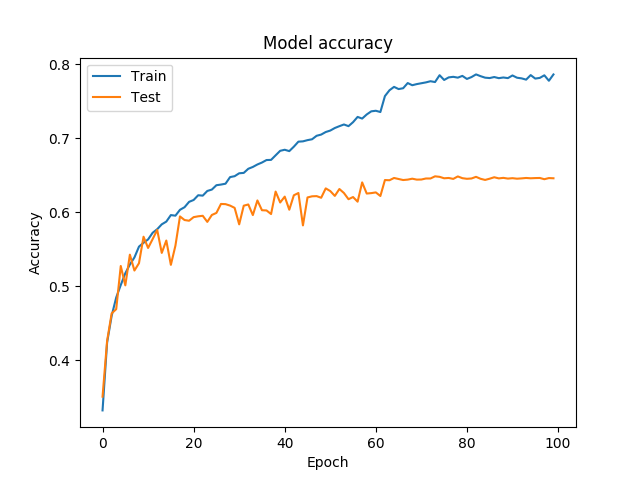
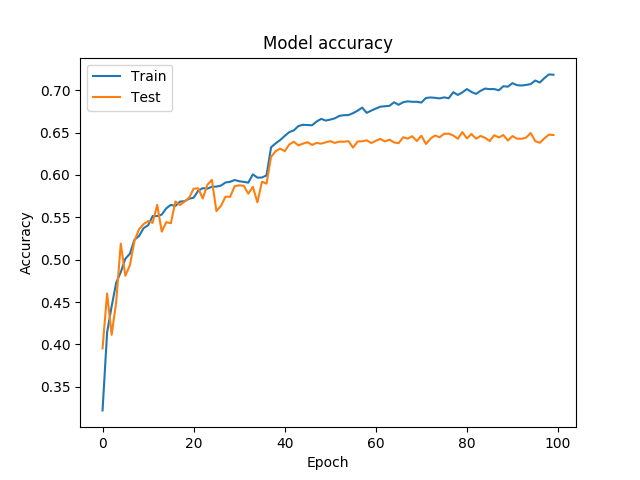
used resnet with lr = 1.4e-3

diff --git a/face_classification/src/train_emotion_classifier.py b/face_classification/src/train_emotion_classifier.py
@@ -10,6 +10,7 @@ import matplotlib.pyplot as plt
 from keras.callbacks import CSVLogger, ModelCheckpoint, EarlyStopping
 from keras.callbacks import ReduceLROnPlateau
 from keras.preprocessing.image import ImageDataGenerator
+from keras.optimizers import Adam
 
 from models.resnet import ResNet18
 from utils.datasets import DataManager
@@ -38,7 +39,8 @@ data_generator = ImageDataGenerator(
 
 # model parameters/compilation
 model = ResNet18(input_shape, num_classes)
-model.compile(optimizer='adagrad', loss='categorical_crossentropy',
+adam = Adam(lr=1.46e-3)
+model.compile(optimizer=adam, loss='categorical_crossentropy',
               metrics=['accuracy'])
 model.summary()
 
